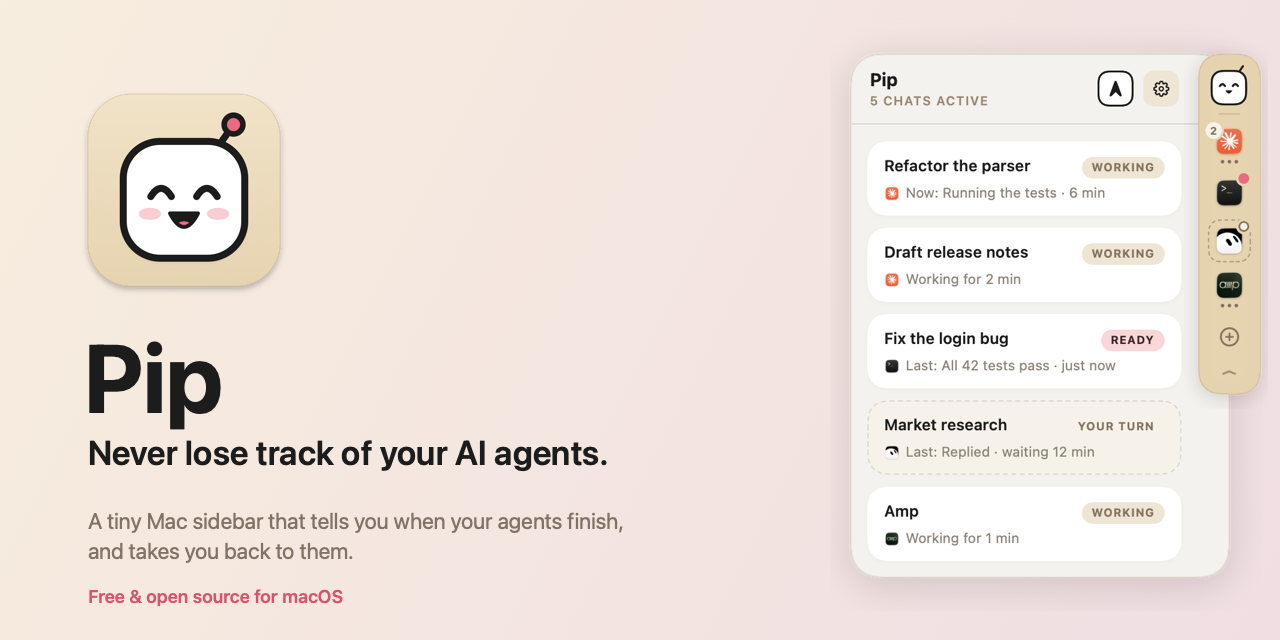
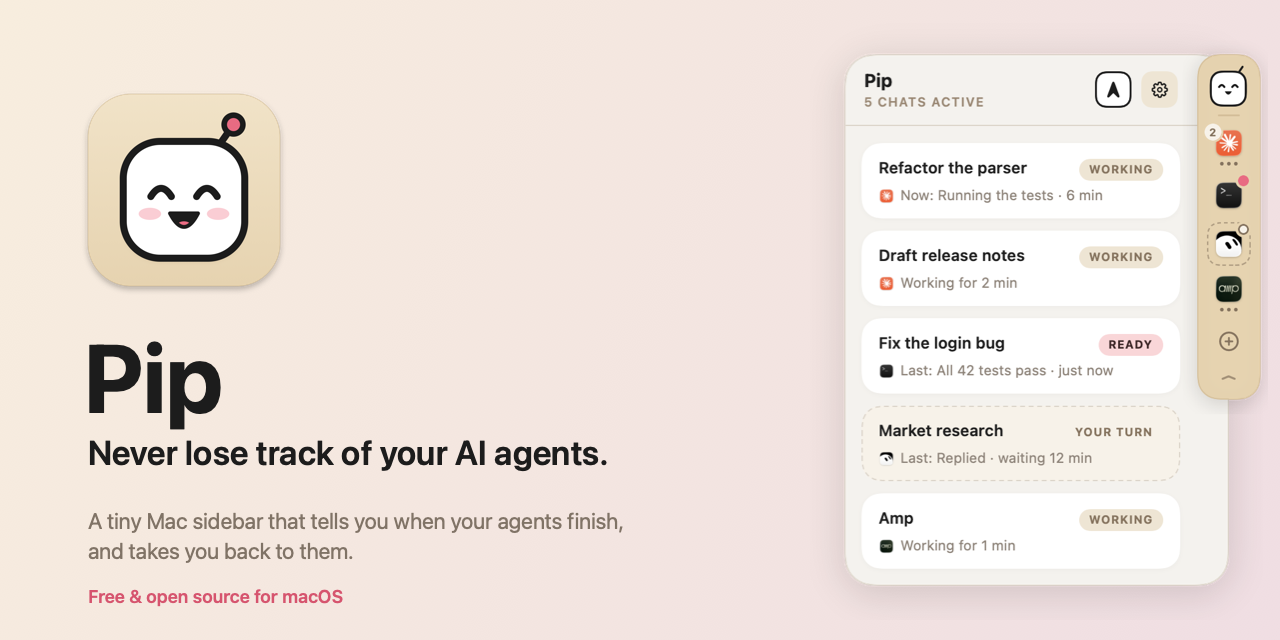
Screenshots: transparent, cropped versions of every scene; social preview uses them

diff --git a/Sources/Pip/Screenshots.swift b/Sources/Pip/Screenshots.swift
@@ -21,9 +21,11 @@ enum Screenshots {
             let store = sampleStore(scene)
             if let png = shot(store, scene) { try? png.write(to: folder.appendingPathComponent("pip-\(name).png")) }
         }
-        // The panel on its own, on a clear background, for the social preview (Tools/make-social.swift).
+        // Each scene on its own, on a clear background and cropped to Pip, for the social preview and posts.
         clear = true
-        if let png = shot(sampleStore(.panel), .panel) { try? png.write(to: folder.appendingPathComponent("pip-panel-clear.png")) }
+        for (name, scene) in [("ready", Scene.ready), ("panel", Scene.panel), ("chats", Scene.chats)] {
+            if let png = shot(sampleStore(scene), scene) { try? png.write(to: folder.appendingPathComponent("pip-\(name)-clear.png")) }
+        }
         clear = false
         return true
     }
@@ -118,7 +120,12 @@ enum Screenshots {
         ctx.scaleBy(x: s, y: s)
         if clear {
             for (img, rect) in pieces { ctx.draw(img, in: CGRect(x: rect.minX, y: H - rect.maxY, width: rect.width, height: rect.height)) }
-            return ctx.makeImage().flatMap { NSBitmapImageRep(cgImage: $0).representation(using: .png, properties: [:]) }
+            // Crop to the pieces (in pixels, y from the top).
+            let box = pieces.map(\.1).reduce(CGRect.null) { $0.union($1) }.intersection(CGRect(x: 0, y: 0, width: W, height: H))
+            guard let full = ctx.makeImage(),
+                  let cut = full.cropping(to: CGRect(x: box.minX * s, y: box.minY * s, width: box.width * s, height: box.height * s))
+            else { return nil }
+            return NSBitmapImageRep(cgImage: cut).representation(using: .png, properties: [:])
         }
         // Background: warm sand to soft blush, matching Pip's palette.
         let colors = [CGColor(red: 0.96, green: 0.92, blue: 0.86, alpha: 1), CGColor(red: 0.93, green: 0.86, blue: 0.88, alpha: 1)]

diff --git a/Tools/make-social.swift b/Tools/make-social.swift
@@ -33,14 +33,8 @@ text("Free & open source for macOS", .systemFont(ofSize: 18, weight: .semibold),
 
 // Right: the panel screenshot, cropped to Pip itself.
 if let shot = NSImage(contentsOfFile: "docs/pip-panel-clear.png"), let cg = shot.cgImage(forProposedRect: nil, context: nil, hints: nil) {
-    let px = CGFloat(cg.width) / 880                        // the screenshot is drawn at 2×
-    let crop = CGRect(x: 515 * px, y: 40 * px, width: 365 * px, height: 500 * px)
-    if let part = cg.cropping(to: crop) {
-        let h: CGFloat = 600, w = h * crop.width / crop.height
-        ctx.saveGState()
-        ctx.draw(part, in: CGRect(x: W - w - 12, y: 20, width: w, height: h))
-        ctx.restoreGState()
-    }
+    let h: CGFloat = 600, w = h * CGFloat(cg.width) / CGFloat(cg.height)
+    ctx.draw(cg, in: CGRect(x: W - w - 12, y: 20, width: w, height: h))
 }
 NSGraphicsContext.restoreGraphicsState()
 try! rep.representation(using: .png, properties: [:])!.write(to: URL(fileURLWithPath: "docs/social-preview.png"))
